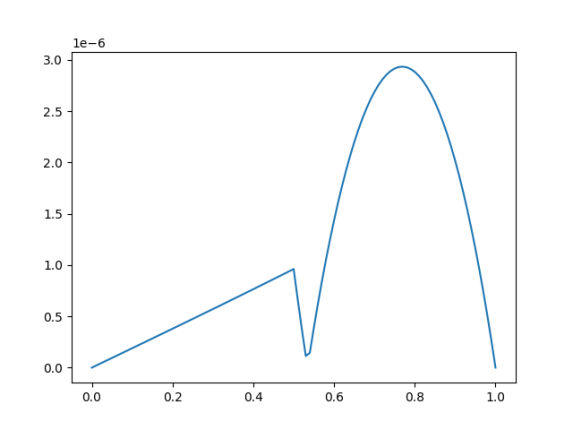
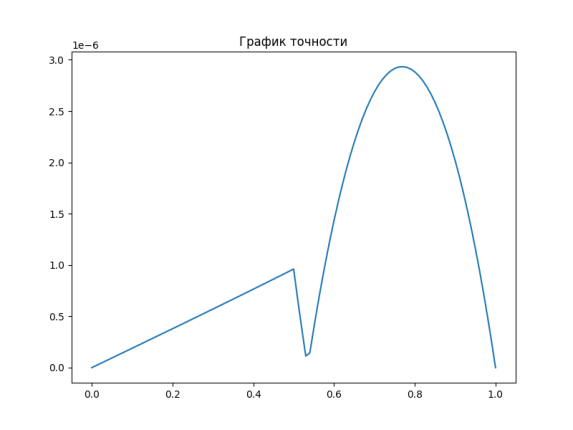
title

diff --git a/ui.py b/ui.py
@@ -84,10 +84,12 @@ class ExampleApp(QtWidgets.QMainWindow, design.Ui_MainWindow):
         y2 = [y2[2 * i] for i in range(len(y))]
         diff = [abs(y[i] - y2[i]) for i in range(len(y))]
 
+        plt.title("Численное решение")
         plt.plot(x, y)
         plt.savefig(graph1Name)
         plt.clf()
 
+        plt.title("График точности")
         plt.plot(x, diff)
         plt.savefig(graph2Name)
         plt.clf()
@@ -133,6 +135,7 @@ class ExampleApp(QtWidgets.QMainWindow, design.Ui_MainWindow):
         plt.savefig(graph1Name)
         plt.clf()
 
+        plt.title("График точности")
         plt.plot(x, diff)
         plt.savefig(graph2Name)
         plt.clf()
